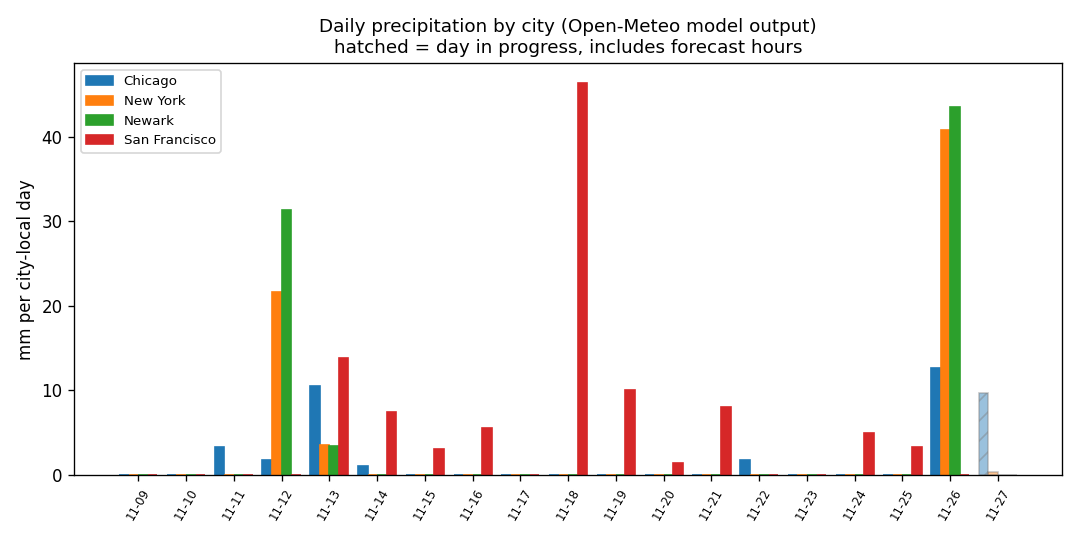
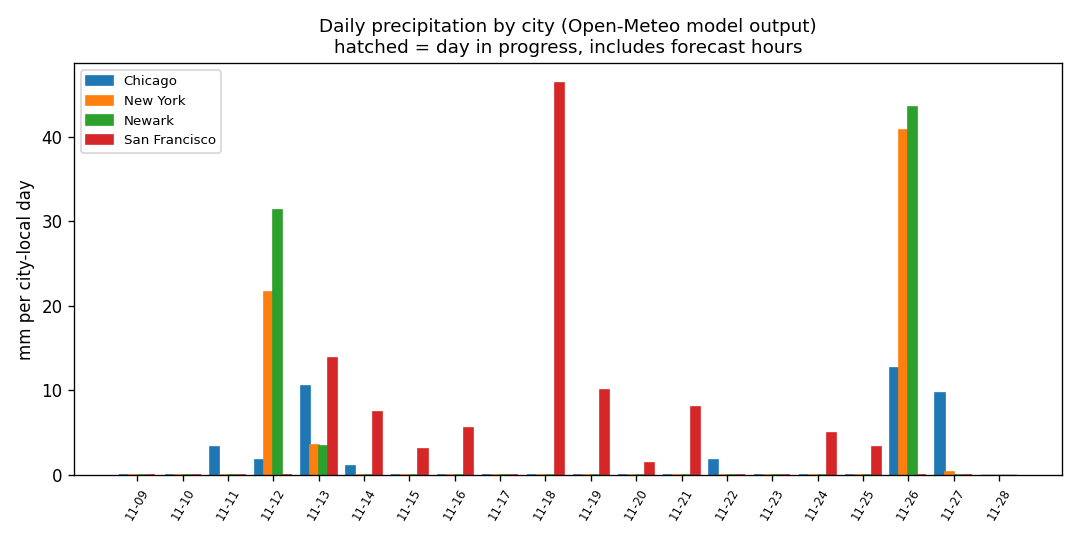
Refresh data; add dry-streak query

Changed region(s): [[0.1222, 0.1481, 0.9167, 0.9778], [0.9167, 0.9185, 0.9472, 0.9481]]

diff --git a/src/weatherwh/extremes.py b/src/weatherwh/extremes.py
@@ -55,3 +55,31 @@ def day_status(city: str, day, now_utc: dt.datetime | None = None) -> str:
     """'complete' for city-local days that have ended; otherwise the day is
     still in progress and its totals include forecast hours."""
     return "complete" if day < city_today(city, now_utc) else "in progress (includes forecast hours)"
+
+
+DRY_DAY_MM = 0.1
+
+
+def longest_dry_streaks(con, now_utc: dt.datetime | None = None) -> list[dict]:
+    """Longest run of consecutive complete days under DRY_DAY_MM total
+    precipitation, per city (model output; in-progress days are excluded and a
+    missing day ends a run). Ties keep the earliest run. Sorted by length then
+    city. The 0.1 mm cutoff is an illustrative choice, not a standard."""
+    rows = con.execute("SELECT city, day, total_precip_mm FROM mart_daily_city ORDER BY city, day").fetchall()
+    best: dict[str, dict] = {}
+    cur: dict[str, dict] = {}
+    for city, day, precip in rows:
+        if day_status(city, day, now_utc) != "complete":
+            continue
+        run = cur.get(city)
+        dry = precip is not None and precip < DRY_DAY_MM
+        if dry and run and day == run["end"] + dt.timedelta(days=1):
+            run["end"], run["days"] = day, run["days"] + 1
+        elif dry:
+            run = cur[city] = {"city": city, "start": day, "end": day, "days": 1}
+        else:
+            cur.pop(city, None)
+            continue
+        if city not in best or run["days"] > best[city]["days"]:
+            best[city] = dict(run)
+    return sorted(best.values(), key=lambda r: (-r["days"], r["city"]))

diff --git a/tests/test_extremes.py b/tests/test_extremes.py
@@ -420,3 +420,17 @@ def test_wind_summary_mean_p90_nearest_rank_completed_only():
         {"city": "A", "days": 10, "mean_peak_kmh": 55.0, "p90_peak_kmh": 90.0}]
     assert dashboard.wind_summary(_empty()) == []
     con.close()
+
+
+def test_longest_dry_streaks_breaks_on_rain_gap_and_in_progress_days():
+    con = warehouse.connect(":memory:")
+    # A: dry d0-d2, rain d3, dry d4. B: dry d0, missing d1, dry d2-d3. C: wet only.
+    load(con, [("A", 0, 0, 5), ("A", 1, 0, 5), ("A", 2, 0.05, 5), ("A", 3, 2.0, 5), ("A", 4, 0, 5),
+               ("B", 0, 0, 5), ("B", 2, 0, 5), ("B", 3, 0, 5), ("C", 0, 1.0, 5)])
+    out = extremes.longest_dry_streaks(con, now_utc=dt.datetime(2026, 11, 5, 12, tzinfo=dt.timezone.utc))
+    assert [(r["city"], r["days"]) for r in out] == [("A", 3), ("B", 2)]
+    assert out[0]["start"] == dt.date(2026, 11, 1) and out[0]["end"] == dt.date(2026, 11, 3)
+    # Nov 3 still in progress at this moment, so A's run is cut to 2 days
+    early = extremes.longest_dry_streaks(con, now_utc=dt.datetime(2026, 11, 3, 12, tzinfo=dt.timezone.utc))
+    assert [(r["city"], r["days"]) for r in early] == [("A", 2), ("B", 1)]
+    con.close()

diff --git a/src/weatherwh/cli.py b/src/weatherwh/cli.py
@@ -48,6 +48,7 @@ def main(argv=None, con=None) -> int:
     c = sub.add_parser("city"); c.add_argument("name"); c.add_argument("--days", type=int, default=7)
     sub.add_parser("latest")
     sub.add_parser("severe")
+    sub.add_parser("dry")
     args = ap.parse_args(argv)
     if con is None:
         import duckdb
@@ -58,6 +59,12 @@ def main(argv=None, con=None) -> int:
         return 0 if rows else 1
     if args.cmd == "latest":
         print(_fmt(latest_by_city(con)))
+        return 0
+    if args.cmd == "dry":
+        runs = extremes.longest_dry_streaks(con)
+        print("\n".join(f"{r['city']:<14} {r['days']} days ({r['start']} to {r['end']})" for r in runs)
+              or "no complete dry days")
+        print("Model output; dry means under 0.1 mm/day, an illustrative cutoff.")
         return 0
     sev = extremes.severe_days(con)
     print("\n".join(f"{s['city']:<14} {s['day']} {s['reasons']} (rain {s['precip_mm']} mm, "

diff --git a/tests/test_cli.py b/tests/test_cli.py
@@ -34,3 +34,15 @@ def test_main_outputs_and_exit_codes(capsys):
     assert cli.main(["severe"], con=con) == 0
     out = capsys.readouterr().out
     assert "heavy rain" in out and "not official weather alerts" in out
+
+
+def test_dry_subcommand_prints_streaks_and_caveat(capsys):
+    import datetime as dt
+    from weatherwh import cli, warehouse
+    con = warehouse.connect(":memory:")
+    t0 = dt.datetime(2026, 1, 1)
+    warehouse.refresh(con, [{"city": "New York", "hour": t0 + dt.timedelta(days=d), "ingested_at": t0,
+                             "temperature_2m": 5.0, "precipitation": 0.0, "wind_speed_10m": 5.0} for d in range(3)])
+    assert cli.main(["dry"], con=con) == 0
+    out = capsys.readouterr().out
+    assert "New York" in out and "3 days" in out and "illustrative cutoff" in out

diff --git a/reports/dashboard.md b/reports/dashboard.md
@@ -1,13 +1,17 @@
 # Weather Warehouse - daily dashboard
 
-Generated 2026-11-27 20:04 UTC.
+Generated 2026-11-28 12:09 UTC.
 
 | city | day | avg_temp_c | min_temp_c | max_temp_c | total_precip_mm | max_wind_kmh | hours_observed |
 | --- | --- | --- | --- | --- | --- | --- | --- |
-| Chicago | 2026-11-27 | 3.68 | 0.5 | 5.7 | 9.7 | 36.7 | 24 |
-| New York | 2026-11-27 | 10.16 | 4.9 | 13.9 | 0.4 | 26.8 | 24 |
-| Newark | 2026-11-27 | 9.75 | 4.6 | 12.6 | 0.0 | 21.7 | 24 |
-| San Francisco | 2026-11-27 | 12.05 | 9.2 | 15.1 | 0.0 | 13.8 | 24 |
+| Chicago | 2026-11-28 | 4.58 | 0.7 | 9.2 | 0.0 | 19.4 | 24 |
+| New York | 2026-11-28 | 6.79 | 4.9 | 9.0 | 0.0 | 24.5 | 24 |
+| Newark | 2026-11-28 | 6.49 | 4.0 | 9.2 | 0.0 | 22.1 | 24 |
+| San Francisco | 2026-11-28 | 13.04 | 10.9 | 16.5 | 0.0 | 14.1 | 24 |
+| Chicago | 2026-11-27 | 4.21 | 1.8 | 6.8 | 9.7 | 36.7 | 24 |
+| New York | 2026-11-27 | 10.55 | 6.4 | 13.9 | 0.4 | 26.8 | 24 |
+| Newark | 2026-11-27 | 10.16 | 6.4 | 12.6 | 0.0 | 21.7 | 24 |
+| San Francisco | 2026-11-27 | 12.19 | 9.2 | 15.9 | 0.0 | 11.9 | 24 |
 | Chicago | 2026-11-26 | 5.6 | 4.1 | 6.6 | 12.7 | 36.7 | 24 |
 | New York | 2026-11-26 | 7.02 | 5.6 | 10.9 | 40.8 | 42.0 | 24 |
 | Newark | 2026-11-26 | 6.31 | 4.6 | 10.8 | 43.5 | 40.0 | 24 |
@@ -30,10 +34,6 @@ Generated 2026-11-27 20:04 UTC.
 | San Francisco | 2026-11-22 | 10.14 | 7.7 | 12.1 | 0.0 | 11.1 | 24 |
 | Chicago | 2026-11-21 | 12.69 | 7.2 | 20.1 | 0.0 | 15.8 | 24 |
 | New York | 2026-11-21 | 12.79 | 8.1 | 19.0 | 0.0 | 10.5 | 24 |
-| Newark | 2026-11-21 | 12.23 | 6.7 | 19.2 | 0.0 | 13.0 | 24 |
-| San Francisco | 2026-11-21 | 9.53 | 6.4 | 12.1 | 8.0 | 14.3 | 24 |
-| Chicago | 2026-11-20 | 11.73 | 5.5 | 19.0 | 0.0 | 17.1 | 24 |
-| New York | 2026-11-20 | 13.37 | 7.3 | 21.3 | 0.0 | 9.5 | 24 |
 
 ## Heat / cold exposure (current window)
 
@@ -52,9 +52,10 @@ Completed days only: daily average temperature vs the city's other days (|z| >= 
 
 | city | day | avg temp C | z-score |
 | --- | --- | ---: | ---: |
-| Chicago | 2026-11-21 | 12.69 | 2.11 |
-| New York | 2026-11-25 | 3.47 | -2.04 |
-| Newark | 2026-11-25 | 3.49 | -2.01 |
+| Chicago | 2026-11-21 | 12.69 | 2.18 |
+| New York | 2026-11-25 | 3.47 | -2.1 |
+| Newark | 2026-11-25 | 3.49 | -2.07 |
+| Newark | 2026-11-23 | 15.54 | 2.01 |
 
 ## Precipitation
 
@@ -69,14 +70,14 @@ Model output in mm over the window; the current day includes forecast hours.
 | New York | 66.5 | 3 |
 | Chicago | 40.9 | 7 |
 
-## City leaders, 2026-11-26 (latest day complete in every city)
+## City leaders, 2026-11-27 (latest day complete in every city)
 
 Model output, not station readings.
 
-- Warmest high: San Francisco (16.4 C)
-- Coldest low: Chicago (4.1 C)
-- Wettest: Newark (43.5 mm)
-- Windiest: New York (42.0 km/h)
+- Warmest high: San Francisco (15.9 C)
+- Coldest low: Chicago (1.8 C)
+- Wettest: Chicago (9.7 mm)
+- Windiest: Chicago (36.7 km/h)
 
 ## Source freshness
 
@@ -84,10 +85,10 @@ Last successful Open-Meteo fetch per city (empty or failed fetches do not count)
 
 | City | Last successful fetch | Age (h) | Failed fetches since | Latest hour held |
 | --- | --- | ---: | ---: | --- |
-| Chicago | 2026-11-27 15:04:12.067568 | 0.0 | 0 | 2026-11-27 23:00:00 |
-| New York | 2026-11-27 15:04:12.067568 | 0.0 | 0 | 2026-11-27 23:00:00 |
-| Newark | 2026-11-27 15:04:12.067568 | 0.0 | 0 | 2026-11-27 23:00:00 |
-| San Francisco | 2026-11-27 15:04:12.067568 | 0.0 | 0 | 2026-11-27 23:00:00 |
+| Chicago | 2026-11-28 07:08:59.780364 | 0.0 | 0 | 2026-11-28 23:00:00 |
+| New York | 2026-11-28 07:08:59.780364 | 0.0 | 0 | 2026-11-28 23:00:00 |
+| Newark | 2026-11-28 07:08:59.780364 | 0.0 | 0 | 2026-11-28 23:00:00 |
+| San Francisco | 2026-11-28 07:08:59.780364 | 0.0 | 0 | 2026-11-28 23:00:00 |
 
 ## Dry-day streaks (rain under 1 mm)
 
@@ -96,9 +97,9 @@ Consecutive completed days below 1 mm of rain. Model output; illustrative, not a
 | City | Current streak (days) | Longest streak (days) |
 | --- | ---: | ---: |
 | Chicago | 0 | 7 |
-| New York | 0 | 12 |
-| Newark | 0 | 12 |
-| San Francisco | 1 | 4 |
+| New York | 1 | 12 |
+| Newark | 1 | 12 |
+| San Francisco | 2 | 4 |
 
 ## Warmest and coldest completed days
 
@@ -106,10 +107,10 @@ By daily average temperature, within the current data window only. Model output,
 
 | City | Warmest day | Avg C | Coldest day | Avg C | Days compared |
 | --- | --- | ---: | --- | ---: | ---: |
-| Chicago | 2026-11-21 | 12.69 | 2026-11-23 | 1.32 | 18 |
-| New York | 2026-11-23 | 15.39 | 2026-11-25 | 3.47 | 18 |
-| Newark | 2026-11-23 | 15.54 | 2026-11-25 | 3.49 | 18 |
-| San Francisco | 2026-11-11 | 16.03 | 2026-11-23 | 9.25 | 18 |
+| Chicago | 2026-11-21 | 12.69 | 2026-11-23 | 1.32 | 19 |
+| New York | 2026-11-23 | 15.39 | 2026-11-25 | 3.47 | 19 |
+| Newark | 2026-11-23 | 15.54 | 2026-11-25 | 3.49 | 19 |
+| San Francisco | 2026-11-11 | 16.03 | 2026-11-23 | 9.25 | 19 |
 
 ## Week over week temperature
 
@@ -117,10 +118,10 @@ Mean daily average temperature, latest 7 completed days vs the 7 before. Two sho
 
 | City | Latest 7 days (C) | Previous 7 days (C) | Change (C) |
 | --- | ---: | ---: | ---: |
-| Chicago | 6.45 | 5.3 | +1.15 |
-| New York | 10.37 | 7.64 | +2.73 |
-| Newark | 10.14 | 7.54 | +2.61 |
-| San Francisco | 10.9 | 12.15 | -1.26 |
+| Chicago | 5.38 | 6.61 | -1.23 |
+| New York | 9.96 | 8.83 | +1.13 |
+| Newark | 9.75 | 8.7 | +1.05 |
+| San Francisco | 11.19 | 11.62 | -0.43 |
 
 ## Degree days (base 18 C)
 
@@ -128,10 +129,10 @@ Heating degree days sum how far each completed day's average fell below 18 C; co
 
 | City | Days | Heating degree days | Cooling degree days |
 | --- | ---: | ---: | ---: |
-| Chicago | 18 | 211.5 | 0.0 |
-| New York | 18 | 148.8 | 0.0 |
-| Newark | 18 | 152.0 | 0.0 |
-| San Francisco | 18 | 99.9 | 0.0 |
+| Chicago | 19 | 225.3 | 0.0 |
+| New York | 19 | 156.2 | 0.0 |
+| Newark | 19 | 159.8 | 0.0 |
+| San Francisco | 19 | 105.7 | 0.0 |
 
 ## Wettest completed days
 
@@ -153,9 +154,9 @@ Maximum hourly wind speed. Model output, current window only.
 | --- | --- | ---: |
 | New York | 2026-11-26 | 42.0 |
 | Newark | 2026-11-26 | 40.0 |
+| Chicago | 2026-11-27 | 36.7 |
 | Chicago | 2026-11-26 | 36.7 |
 | Newark | 2026-11-12 | 30.1 |
-| New York | 2026-11-09 | 29.9 |
 
 ## Day-to-day temperature volatility
 
@@ -163,10 +164,10 @@ Mean absolute change in daily average temperature between consecutive completed 
 
 | City | Day pairs | Mean change (C) | Largest swing (C) | On |
 | --- | ---: | ---: | ---: | --- |
-| Chicago | 17 | 2.01 | 7.83 | 2026-11-23 |
-| New York | 17 | 2.2 | 8.59 | 2026-11-24 |
-| Newark | 17 | 2.12 | 8.42 | 2026-11-24 |
-| San Francisco | 17 | 0.92 | 2.27 | 2026-11-24 |
+| Chicago | 18 | 1.97 | 7.83 | 2026-11-23 |
+| New York | 18 | 2.27 | 8.59 | 2026-11-24 |
+| Newark | 18 | 2.22 | 8.42 | 2026-11-24 |
+| San Francisco | 18 | 0.89 | 2.27 | 2026-11-24 |
 
 ## Frost days (minimum at or below 0 C)
 
@@ -174,10 +175,10 @@ Completed days only. Model output, current window only.
 
 | City | Days | Frost days | Share | Coldest minimum (C) | On |
 | --- | ---: | ---: | ---: | ---: | --- |
-| Chicago | 18 | 5 | 27.8% | -1.8 | 2026-11-24 |
-| New York | 18 | 1 | 5.6% | -0.1 | 2026-11-25 |
-| Newark | 18 | 1 | 5.6% | -0.3 | 2026-11-25 |
-| San Francisco | 18 | 0 | 0.0% | 5.5 | 2026-11-23 |
+| Chicago | 19 | 5 | 26.3% | -1.8 | 2026-11-24 |
+| New York | 19 | 1 | 5.3% | -0.1 | 2026-11-25 |
+| Newark | 19 | 1 | 5.3% | -0.3 | 2026-11-25 |
+| San Francisco | 19 | 0 | 0.0% | 5.5 | 2026-11-23 |
 
 ## City temperature co-movement
 
@@ -185,12 +186,12 @@ Pearson r of daily mean temperature over shared completed days. Short window, mo
 
 | City A | City B | Shared days | r |
 | --- | --- | ---: | ---: |
-| New York | Newark | 18 | 0.997 |
-| Chicago | New York | 18 | 0.598 |
-| Chicago | Newark | 18 | 0.56 |
-| Chicago | San Francisco | 18 | -0.152 |
-| New York | San Francisco | 18 | -0.185 |
-| Newark | San Francisco | 18 | -0.189 |
+| New York | Newark | 19 | 0.997 |
+| Chicago | New York | 19 | 0.585 |
+| Chicago | Newark | 19 | 0.549 |
+| Chicago | San Francisco | 19 | -0.147 |
+| New York | San Francisco | 19 | -0.186 |
+| Newark | San Francisco | 19 | -0.19 |
 
 ## Data coverage
 
@@ -198,10 +199,10 @@ Completed days only. A short day has fewer than 24 hourly readings; any gaps wou
 
 | City | Days | Short days | Missing hours |
 | --- | ---: | ---: | ---: |
-| Chicago | 18 | 0 | 0 |
-| New York | 18 | 0 | 0 |
-| Newark | 18 | 0 | 0 |
-| San Francisco | 18 | 0 | 0 |
+| Chicago | 19 | 0 | 0 |
+| New York | 19 | 0 | 0 |
+| Newark | 19 | 0 | 0 |
+| San Francisco | 19 | 0 | 0 |
 
 ## Daily temperature range
 
@@ -209,10 +210,10 @@ Maximum minus minimum temperature per completed day. Model output, current windo
 
 | City | Days | Mean range (C) | Widest (C) | On |
 | --- | ---: | ---: | ---: | --- |
-| Chicago | 18 | 9.0 | 13.5 | 2026-11-20 |
-| New York | 18 | 8.7 | 14.0 | 2026-11-20 |
-| Newark | 18 | 9.6 | 16.2 | 2026-11-18 |
-| San Francisco | 18 | 6.6 | 12.3 | 2026-11-10 |
+| Chicago | 19 | 8.8 | 13.5 | 2026-11-20 |
+| New York | 19 | 8.6 | 14.0 | 2026-11-20 |
+| Newark | 19 | 9.4 | 16.2 | 2026-11-18 |
+| San Francisco | 19 | 6.6 | 12.3 | 2026-11-10 |
 
 ## Breezy days (peak wind at or above 25 km/h)
 
@@ -220,10 +221,10 @@ Completed days only. The 25 km/h cut-off is an illustrative choice made after in
 
 | City | Days | Breezy days | Share | Peak (km/h) | On |
 | --- | ---: | ---: | ---: | ---: | --- |
-| Chicago | 18 | 5 | 27.8% | 36.7 | 2026-11-26 |
-| New York | 18 | 2 | 11.1% | 42.0 | 2026-11-26 |
-| Newark | 18 | 3 | 16.7% | 40.0 | 2026-11-26 |
-| San Francisco | 18 | 1 | 5.6% | 29.3 | 2026-11-18 |
+| Chicago | 19 | 6 | 31.6% | 36.7 | 2026-11-26 |
+| New York | 19 | 3 | 15.8% | 42.0 | 2026-11-26 |
+| Newark | 19 | 3 | 15.8% | 40.0 | 2026-11-26 |
+| San Francisco | 19 | 1 | 5.3% | 29.3 | 2026-11-18 |
 
 ## Temperature drift over the window
 
@@ -231,10 +232,10 @@ Least-squares slope of daily mean temperature over completed days. A short autum
 
 | City | Days | Slope (C/day) | Fitted change (C) |
 | --- | ---: | ---: | ---: |
-| Chicago | 18 | -0.062 | -1.1 |
-| New York | 18 | -0.08 | -1.4 |
-| Newark | 18 | -0.082 | -1.4 |
-| San Francisco | 18 | -0.3 | -5.1 |
+| Chicago | 19 | -0.085 | -1.5 |
+| New York | 19 | -0.055 | -1.0 |
+| Newark | 19 | -0.061 | -1.1 |
+| San Francisco | 19 | -0.259 | -4.7 |
 
 ## Wet-day frequency and intensity
 
@@ -242,10 +243,10 @@ Wet day = 1 mm or more of total rain (illustrative, same cut-off as the dry stre
 
 | City | Days | Wet days | Share | Mean rain on wet days (mm) |
 | --- | ---: | ---: | ---: | ---: |
-| Chicago | 18 | 6 | 33.3% | 5.2 |
-| New York | 18 | 3 | 16.7% | 22.0 |
-| Newark | 18 | 3 | 16.7% | 26.1 |
-| San Francisco | 18 | 10 | 55.6% | 10.4 |
+| Chicago | 19 | 7 | 36.8% | 5.8 |
+| New York | 19 | 3 | 15.8% | 22.0 |
+| Newark | 19 | 3 | 15.8% | 26.1 |
+| San Francisco | 19 | 10 | 52.6% | 10.4 |
 
 ## Daily peak wind summary
 
@@ -253,10 +254,10 @@ Mean and 90th percentile (nearest rank) of each completed day's peak hourly wind
 
 | City | Days | Mean peak (km/h) | 90th percentile (km/h) |
 | --- | ---: | ---: | ---: |
-| Chicago | 18 | 19.3 | 29.4 |
-| New York | 18 | 18.7 | 29.9 |
-| Newark | 18 | 19.2 | 30.1 |
-| San Francisco | 18 | 14.0 | 21.9 |
+| Chicago | 19 | 20.2 | 36.7 |
+| New York | 19 | 19.2 | 29.9 |
+| Newark | 19 | 19.4 | 30.1 |
+| San Francisco | 19 | 13.9 | 21.9 |
 
 ![Total rain per city](rain_totals.png)
 

diff --git a/README.md b/README.md
@@ -60,3 +60,5 @@ laptop in seconds.
 ## Committing
 
 `scripts/safe_commit.sh "message"` runs the test suite and commits only if it passes (fail-closed: a failing test, a collection error or no passing tests blocks the commit). It does not push.
+
+`weather-query dry` lists each city's longest run of complete days under 0.1 mm precipitation (model output, illustrative cutoff).
